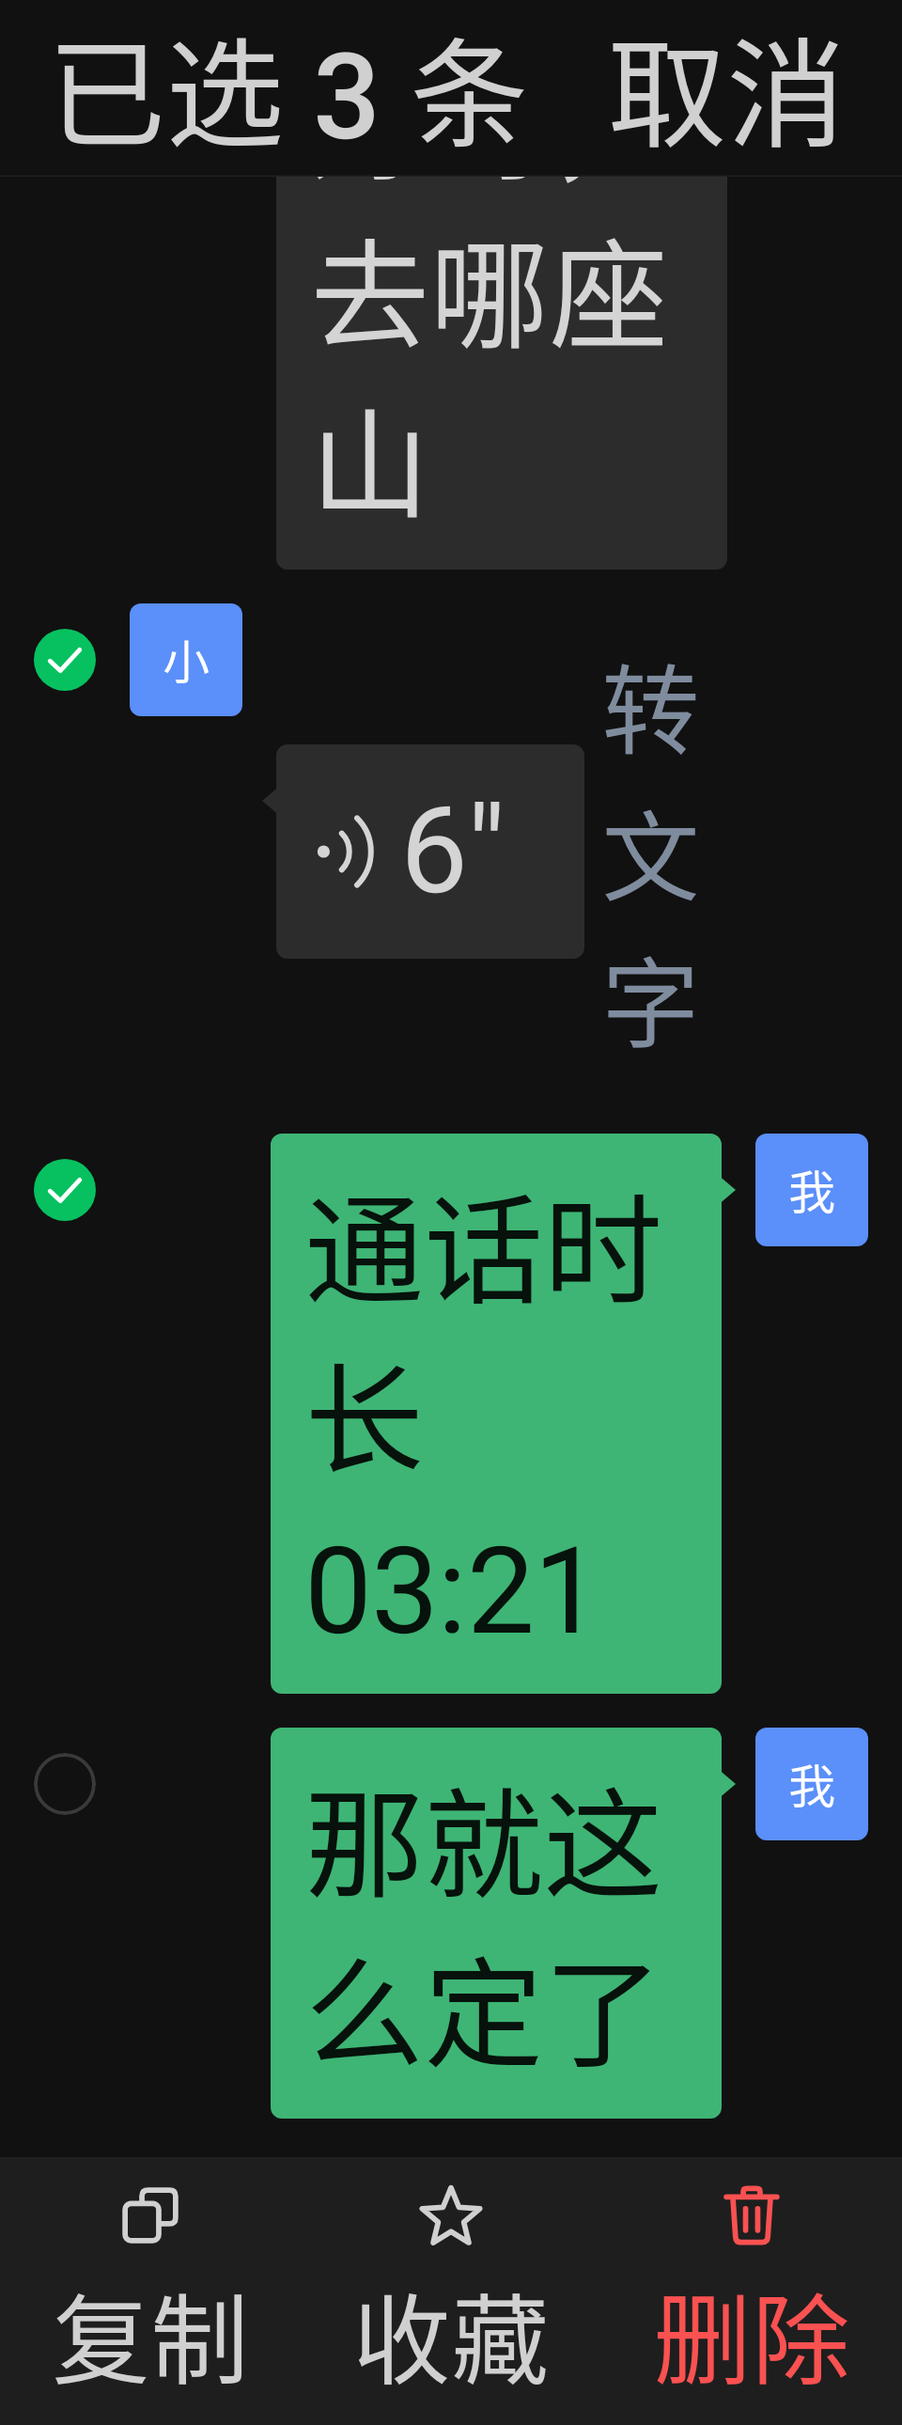
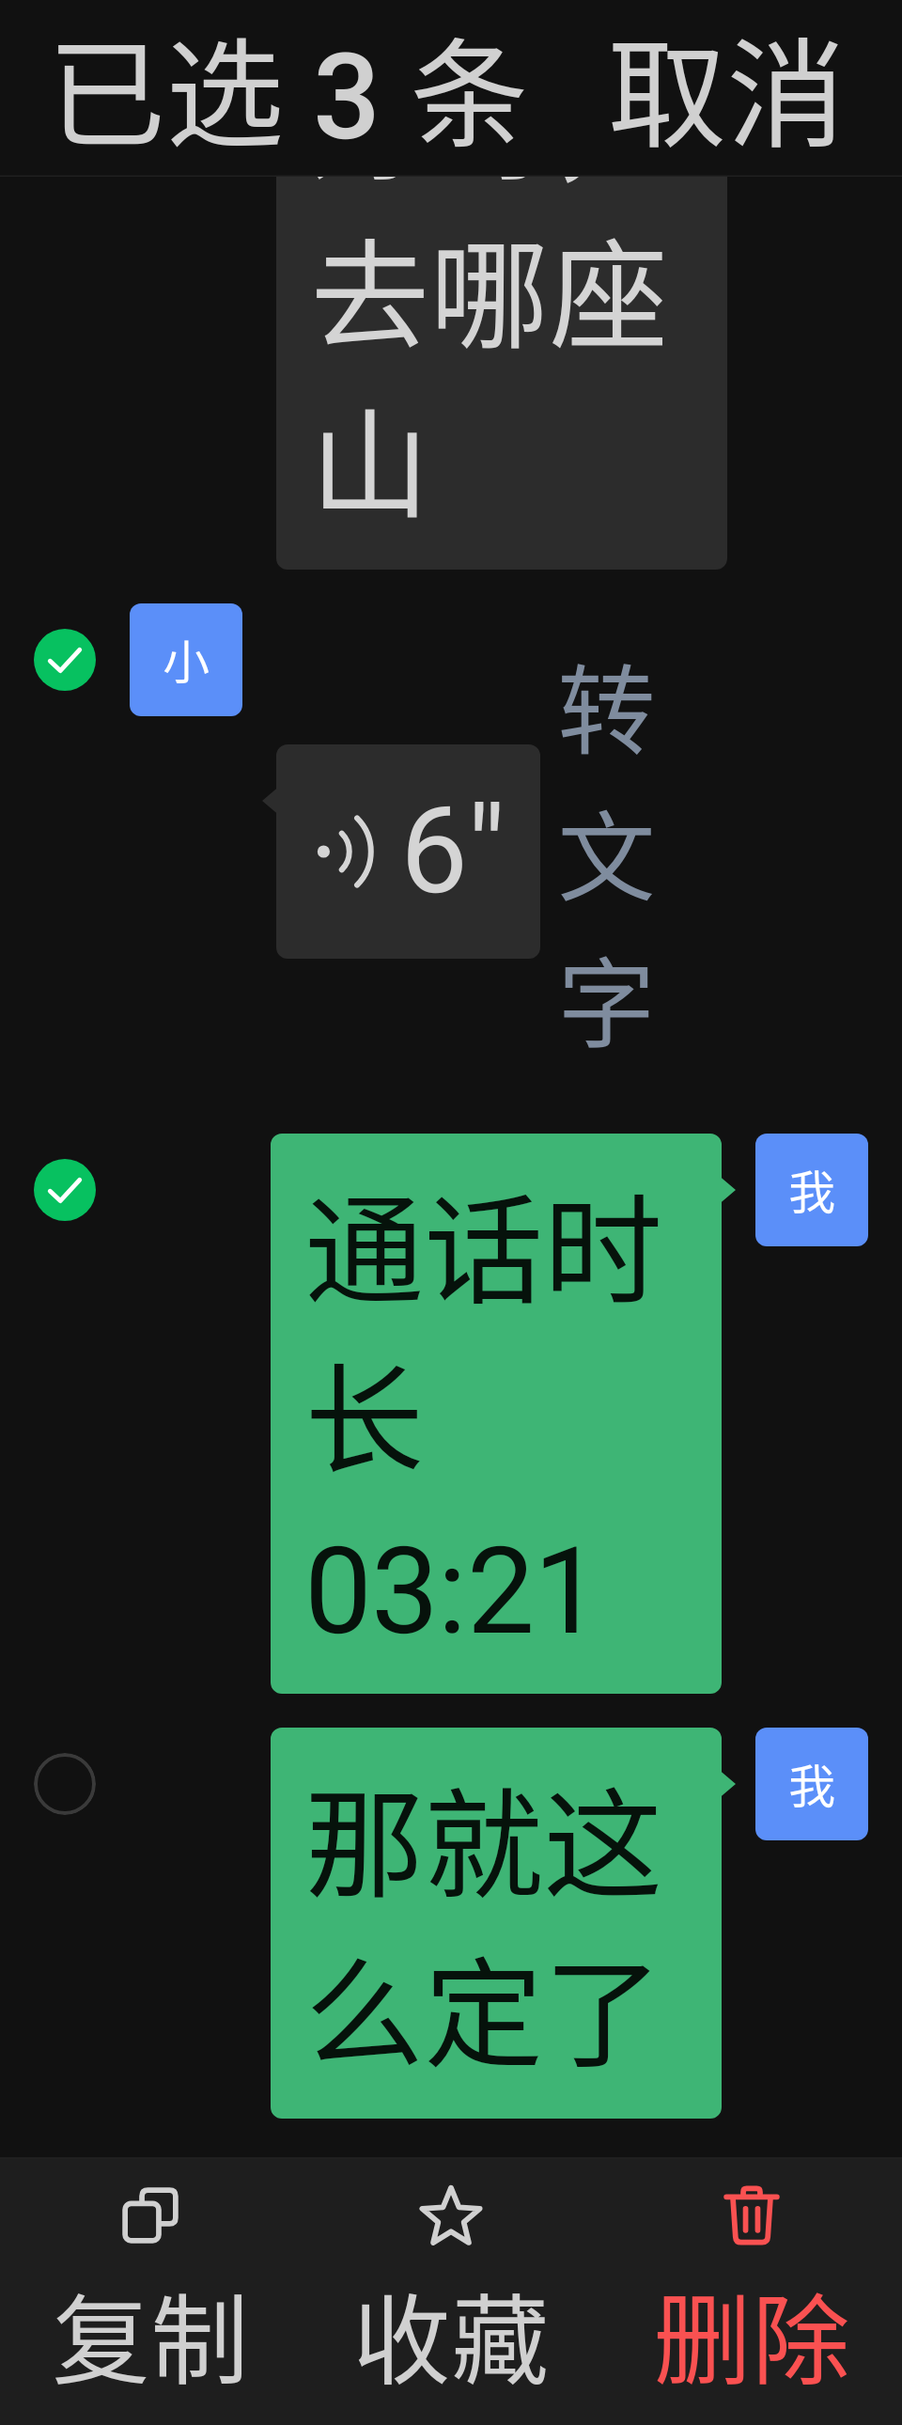
fix(chat): 长语音放不下时先缩短语音条，「转文字」不再被挤坏
真机验证（411dp、系统字体 1.1 × App 特大）发现：没听过的 60 秒语音旁边
「转文字」折成两行，多选时一字一行；窄屏时整行比屏幕宽、居中后语音条的
尾巴和「转文字」都看不见。语音条按秒数定宽先量，旁边只剩一点宽度。

改成先缩短语音条，最短到声波和秒数放得下一行，再让「转文字」变窄；
连一个字都放不下时不显示（长按菜单里也有）。新增长语音样例、5 项测试
和 5 张截图。

Changed region(s): [[0.5938, 0.2791, 0.7812, 0.4341]]

diff --git a/app/src/test/java/isomeria/aichat/ui/UiPolishTest.kt b/app/src/test/java/isomeria/aichat/ui/UiPolishTest.kt
@@ -14,6 +14,7 @@ import androidx.compose.ui.semantics.SemanticsActions
 import androidx.compose.ui.test.getBoundsInRoot
 import androidx.compose.ui.test.isRoot
 import androidx.compose.ui.test.junit4.createComposeRule
+import androidx.compose.ui.test.onAllNodesWithContentDescription
 import androidx.compose.ui.test.onAllNodesWithText
 import androidx.compose.ui.test.onFirst
 import androidx.compose.ui.test.onNodeWithContentDescription
@@ -41,6 +42,7 @@ import isomeria.aichat.feature.call.CallPlayerUi
 import isomeria.aichat.feature.call.CallUi
 import isomeria.aichat.feature.call.isTurnPlaceholder
 import isomeria.aichat.feature.chat.ChatPageSample
+import isomeria.aichat.feature.chat.longVoiceRows
 import isomeria.aichat.feature.chat.selectRows
 import isomeria.aichat.feature.chat.sampleContact
 import isomeria.aichat.feature.chatinfo.ChatInfoContent
@@ -59,6 +61,7 @@ import isomeria.aichat.ui.components.TOP_BAR_MIN_TITLE_SCALE
 import isomeria.aichat.ui.components.TitleSlot
 import isomeria.aichat.ui.components.TopBarIcon
 import isomeria.aichat.ui.components.VoiceBubble
+import isomeria.aichat.ui.components.voiceRowBubbleWidth
 import isomeria.aichat.ui.components.WeActionRow
 import isomeria.aichat.ui.components.WeDialog
 import isomeria.aichat.ui.components.WeIcon
@@ -348,6 +351,93 @@ class UiPolishTest {
         assertTrue("秒数被裁掉", fullyShown("10″"))
     }
 
+    // ---------- 第 11 条（真机验证时补）：长语音旁边的「转文字」 ----------
+    // 真机（411dp 宽、系统字体 1.1 × App 特大）上没听过的 60 秒语音旁边「转文字」折成两行，多选时一字一行；
+    // 窄屏时整行比屏幕宽、居中摆放，语音条的尾巴和「转文字」都看不见。改成先缩短语音条，最短到秒数放得下一行
+
+    @Test
+    fun voiceRowBubbleWidth_shrinksBubbleBeforeToText() {
+        // 放得下：按秒数的宽度
+        assertEquals(200, voiceRowBubbleWidth(available = 400, desired = 200, minimum = 90, besides = 80))
+        // 放不下：语音条缩短，旁边拿到要的宽度
+        assertEquals(220, voiceRowBubbleWidth(available = 300, desired = 250, minimum = 90, besides = 80))
+        // 最短到声波和秒数放得下一行
+        assertEquals(90, voiceRowBubbleWidth(available = 150, desired = 250, minimum = 90, besides = 80))
+        // 特大字体的短语音：秒数比按秒数的宽度还宽时放宽
+        assertEquals(120, voiceRowBubbleWidth(available = 400, desired = 80, minimum = 120, besides = 80))
+        // 不超过整行
+        assertEquals(60, voiceRowBubbleWidth(available = 60, desired = 250, minimum = 90, besides = 80))
+    }
+
+    @Test @Config(qualifiers = "w411dp-h860dp-xxhdpi")
+    fun longVoice_phoneLarge_toTextOnOneLine() {
+        show(PHONE_LARGE) { ChatPageSample(rows = longVoiceRows) }
+        assertVoiceRowsFit(toTextOneLine = true)
+    }
+
+    @Test @Config(qualifiers = "w411dp-h860dp-xxhdpi")
+    fun longVoice_phoneLargeSelecting_toTextOnOneLine() {
+        show(PHONE_LARGE) { ChatPageSample(rows = longVoiceRows, selection = setOf(61L)) }
+        assertVoiceRowsFit(toTextOneLine = true)
+    }
+
+    @Test @Config(qualifiers = "w320dp-h860dp-xxhdpi")
+    fun longVoice_narrowLarge_rowInsideScreen() {
+        show(PHONE_LARGE) { ChatPageSample(rows = longVoiceRows) }
+        assertVoiceRowsFit(toTextOneLine = true)
+    }
+
+    @Test @Config(qualifiers = "w320dp-h860dp-xxhdpi")
+    fun longVoice_narrowLargestSelecting_rowInsideScreen() {
+        show { ChatPageSample(rows = longVoiceRows, selection = setOf(61L)) }
+        assertVoiceRowsFit(toTextOneLine = false)
+    }
+
+    /**
+     * 每条长语音：语音条在屏幕里、秒数一行不被裁；两条对方的语音左边对齐（整行没有被居中挤歪）；
+     * 显示出来的「转文字」完整、不压语音条
+     */
+    private fun assertVoiceRowsFit(toTextOneLine: Boolean) {
+        val width = rootWidth()
+        val bubbles = listOf("语音，60 秒", "语音，42 秒").flatMap { desc ->
+            compose.onAllNodesWithContentDescription(desc, useUnmergedTree = true).fetchSemanticsNodes().map { node ->
+                with(compose.density) { node.boundsInRoot.let { DpRect(it.left.toDp(), it.top.toDp(), it.right.toDp(), it.bottom.toDp()) } }
+            }
+        }
+        assertEquals("应有三条长语音", 3, bubbles.size)
+        bubbles.forEach { b -> assertTrue("语音条超出屏幕 $b / $width", b.left >= 0.dp && b.right <= width + 0.5.dp) }
+        val received = bubbles.sortedBy { it.top }.take(2)
+        assertTrue("两条对方的语音没有左对齐：$received", kotlin.math.abs((received[0].left - received[1].left).value) < 1f)
+        listOf("60″", "42″").forEach { seconds ->
+            compose.onAllNodesWithText(seconds, useUnmergedTree = true).fetchSemanticsNodes().forEach { node ->
+                val layout = textLayout(node)
+                assertEquals("$seconds 折行", 1, layout.lineCount)
+                assertFalse("$seconds 被裁", layout.cut())
+            }
+        }
+        // 极窄时连一个字都放不下的「转文字」不显示（不放到屏幕上），只看显示出来的
+        val labels = compose.onAllNodesWithText("转文字", useUnmergedTree = true).fetchSemanticsNodes().filter { it.layoutInfo.isPlaced }
+        if (toTextOneLine) assertEquals("「转文字」应该三个都显示", 3, labels.size)
+        labels.forEach { node ->
+            val layout = textLayout(node)
+            val shown = node.boundsInRoot
+            assertTrue("「转文字」没有完整显示 ${shown.width}x${shown.height} / ${layout.size}", shown.width >= layout.size.width - 1f && shown.height >= layout.size.height - 1f)
+            assertFalse("「转文字」的字比文字框宽，被裁掉", layout.cut())
+            if (toTextOneLine) assertEquals("「转文字」折行", 1, layout.lineCount)
+            val box = with(compose.density) { DpRect(shown.left.toDp(), shown.top.toDp(), shown.right.toDp(), shown.bottom.toDp()) }
+            assertTrue("「转文字」超出屏幕 $box", box.left >= 0.dp && box.right <= width + 0.5.dp)
+            bubbles.filter { it.top < box.bottom && box.top < it.bottom }.forEach { b ->
+                assertTrue("「转文字」$box 压到语音条 $b", box.left >= b.right - 0.5.dp || box.right <= b.left + 0.5.dp)
+            }
+        }
+    }
+
+    private fun textLayout(node: androidx.compose.ui.semantics.SemanticsNode): TextLayoutResult {
+        val out = mutableListOf<TextLayoutResult>()
+        node.config[SemanticsActions.GetTextLayoutResult].action!!.invoke(out)
+        return out.first()
+    }
+
     // ---------- ① 窄屏大字体：列表行和下一行不重叠 ----------
     // 0.9.0 截图里「选择音色」和「语气和风格」叠在一起，查下来是截图样例的问题：样例的 Column 不能滚动，
     // 内容比屏幕高时最后几行被压缩、居中摆放，和上一行重叠。真实页面可以滚动，不会这样。这里按真实页面放在可滚动的列里，
@@ -455,5 +545,8 @@ class UiPolishTest {
 
     private companion object {
         const val LARGEST = 2.5f
+
+        /** 测试手机上的设置：系统字体 1.1 × App「特大」1.25 */
+        const val PHONE_LARGE = 1.1f * 1.25f
     }
 }

diff --git a/app/src/main/java/isomeria/aichat/feature/chat/MessageRows.kt b/app/src/main/java/isomeria/aichat/feature/chat/MessageRows.kt
@@ -40,6 +40,9 @@ import androidx.compose.ui.draw.clip
 import androidx.compose.ui.draw.drawWithContent
 import androidx.compose.ui.graphics.Color
 import androidx.compose.ui.layout.ContentScale
+import androidx.compose.ui.layout.Layout
+import androidx.compose.ui.layout.layoutId
+import androidx.compose.ui.unit.Constraints
 import androidx.compose.ui.res.stringResource
 import androidx.compose.ui.semantics.clearAndSetSemantics
 import androidx.compose.ui.semantics.contentDescription
@@ -58,6 +61,10 @@ import isomeria.aichat.ui.components.MenuItem
 import isomeria.aichat.ui.components.TextBubble
 import isomeria.aichat.ui.components.UnplayedDot
 import isomeria.aichat.ui.components.VoiceBubble
+import isomeria.aichat.ui.components.voiceBubbleMinWidth
+import isomeria.aichat.ui.components.voiceBubbleWidth
+import isomeria.aichat.ui.components.voiceRowBubbleWidth
+import isomeria.aichat.ui.components.voiceSeconds
 import isomeria.aichat.data.voice.PlayMode
 import isomeria.aichat.ui.components.WeBubbleMenu
 import isomeria.aichat.ui.components.WeIcon
@@ -443,28 +450,56 @@ private fun VoiceMessage(message: Message, sent: Boolean, playing: Boolean, onCl
             )
         }
     }
-    // 0.9.1：语音条先量（宽度按秒数，字体大时跟着变宽），「转文字」用剩下的宽度，放不下时换行；
-    // 以前反过来，窄屏多选时语音条被挤得放不下秒数
-    Row(verticalAlignment = Alignment.CenterVertically) {
-        if (sent) toText(Modifier.weight(1f, fill = false))
-        VoiceBubble(
-            millis = message.voiceMillis,
-            sent = sent,
-            playing = playing,
-            unplayed = unplayed,
-            onClick = onClick,
-            onLongClick = onLongClick,
-            held = held,
-        )
-        if (!sent) {
-            if (unplayed) {
-                Spacer(Modifier.width(6.dp))
-                UnplayedDot()
+    // 0.9.1：一行放不下时先缩短语音条（最短到声波和秒数放得下一行），再让「转文字」变窄、换行（见 voiceRowBubbleWidth）。
+    // 0.9.0 是「转文字」先量，窄屏多选时语音条被挤得放不下秒数；0.9.1 开发时改成语音条按秒数定宽先量，
+    // 真机验证发现大字体时「转文字」被挤成一字一行，窄屏时整行比屏幕宽、尾巴和「转文字」都看不见
+    val seconds = voiceSeconds(message.voiceMillis)
+    val desired = voiceBubbleWidth(seconds) + WeTheme.dimens.bubbleTailWidth
+    val minimum = voiceBubbleMinWidth(seconds)
+    Layout(
+        content = {
+            VoiceBubble(
+                millis = message.voiceMillis,
+                sent = sent,
+                playing = playing,
+                unplayed = unplayed,
+                onClick = onClick,
+                onLongClick = onLongClick,
+                held = held,
+                modifier = Modifier.layoutId(VOICE_BUBBLE),
+            )
+            if (unplayed) Box(Modifier.layoutId(VOICE_DOT).padding(start = 6.dp)) { UnplayedDot() }
+            toText(Modifier.layoutId(VOICE_TO_TEXT))
+        },
+    ) { measurables, constraints ->
+        val bubbleSlot = measurables.first { it.layoutId == VOICE_BUBBLE }
+        val dotSlot = measurables.firstOrNull { it.layoutId == VOICE_DOT }
+        val textSlot = measurables.firstOrNull { it.layoutId == VOICE_TO_TEXT }
+        val height = constraints.maxHeight
+        val besides = (dotSlot?.maxIntrinsicWidth(height) ?: 0) + (textSlot?.maxIntrinsicWidth(height) ?: 0)
+        val available = if (constraints.hasBoundedWidth) constraints.maxWidth else desired.roundToPx() + besides
+        val bubbleWidth = voiceRowBubbleWidth(available, desired.roundToPx(), minimum.roundToPx(), besides)
+        val bubble = bubbleSlot.measure(Constraints(minWidth = bubbleWidth, maxWidth = bubbleWidth, maxHeight = height))
+        val dot = dotSlot?.measure(Constraints(maxHeight = height))
+        val dotWidth = dot?.width ?: 0
+        // 剩下的宽度连一个字都放不下（窄屏、系统大字体叠 App 特大、多选时）就不显示「转文字」，免得字被裁掉一半；长按菜单里也有「转文字」
+        val textWidth = (available - bubbleWidth - dotWidth).coerceAtLeast(0)
+        val text = textSlot?.takeIf { it.minIntrinsicWidth(height) <= textWidth }?.measure(Constraints(maxWidth = textWidth, maxHeight = height))
+        val rowHeight = maxOf(bubble.height, dot?.height ?: 0, text?.height ?: 0)
+        val order = if (sent) listOfNotNull(text, bubble) else listOfNotNull(bubble, dot, text)
+        layout(order.sumOf { it.width }, rowHeight) {
+            var x = 0
+            order.forEach {
+                it.place(x, (rowHeight - it.height) / 2)
+                x += it.width
             }
-            toText(Modifier.weight(1f, fill = false))
         }
     }
 }
+
+private const val VOICE_BUBBLE = "bubble"
+private const val VOICE_DOT = "dot"
+private const val VOICE_TO_TEXT = "toText"
 
 /** 语音下面：展开的转写文字，或自己的语音正在识别 */
 @OptIn(ExperimentalFoundationApi::class)

diff --git a/app/src/main/java/isomeria/aichat/ui/components/VoiceBubble.kt b/app/src/main/java/isomeria/aichat/ui/components/VoiceBubble.kt
@@ -38,6 +38,8 @@ import androidx.compose.ui.semantics.onClick
 import androidx.compose.ui.semantics.onLongClick
 import androidx.compose.ui.semantics.role
 import androidx.compose.ui.semantics.stateDescription
+import androidx.compose.ui.platform.LocalDensity
+import androidx.compose.ui.text.rememberTextMeasurer
 import androidx.compose.ui.unit.Dp
 import androidx.compose.ui.unit.dp
 import isomeria.aichat.R
@@ -52,6 +54,35 @@ fun voiceBubbleWidth(seconds: Int, min: Dp = 72.dp, max: Dp = 200.dp): Dp {
     val fraction = sqrt((seconds.coerceIn(1, 60) - 1) / 59f)
     return min + (max - min) * fraction
 }
+
+/** 声波图标的大小（随字体放大前）和它与秒数的间距 */
+private val VOICE_WAVE_SIZE = 20.dp
+private val VOICE_ICON_GAP = 8.dp
+
+/**
+ * 语音条最窄能到多宽（0.9.1）：两边留白、尾巴、声波和秒数刚好放得下一行。
+ * 聊天里旁边还有「转文字」时，语音条先缩短这一截以外的长度（见 [voiceRowBubbleWidth]）。
+ */
+@Composable
+internal fun voiceBubbleMinWidth(seconds: Int): Dp {
+    val dimens = WeTheme.dimens
+    val density = LocalDensity.current
+    val measurer = rememberTextMeasurer()
+    val text = stringResource(R.string.voice_seconds, seconds)
+    val style = WeTheme.typography.message
+    val textWidth = remember(text, style, density, measurer) { measurer.measure(text, style).size.width }
+    val iconScale = LocalIconScale.current
+    return dimens.bubblePaddingHorizontal * 2 + dimens.bubbleTailWidth + VOICE_WAVE_SIZE * iconScale + VOICE_ICON_GAP +
+        with(density) { (textWidth + 1).toDp() }
+}
+
+/**
+ * 聊天里语音条的宽度（像素，0.9.1 真机验证时改）：按秒数的宽度 [desired]，旁边的红点和「转文字」（[besides]）放不下时缩短，
+ * 最短到 [minimum]（声波和秒数放得下一行）；秒数比按秒数的宽度还宽（特大字体的短语音）时放宽到 [minimum]；不超过 [available]。
+ * 以前语音条按秒数定宽、先量，大字体或窄屏时「转文字」被挤成一字一行，窄屏时整行比屏幕宽、居中后语音条的尾巴和「转文字」都看不见。
+ */
+internal fun voiceRowBubbleWidth(available: Int, desired: Int, minimum: Int, besides: Int): Int =
+    (available - besides).coerceIn(minimum, maxOf(desired, minimum)).coerceAtMost(available)
 
 /**
  * 语音消息的气泡（0.7.0）：和文字气泡同样的形状和颜色，宽度随时长变化，里面是声波图标和秒数。
@@ -117,7 +148,7 @@ fun VoiceBubble(
             ),
         contentAlignment = if (sent) Alignment.CenterEnd else Alignment.CenterStart,
     ) {
-        Row(verticalAlignment = Alignment.CenterVertically, horizontalArrangement = Arrangement.spacedBy(8.dp)) {
+        Row(verticalAlignment = Alignment.CenterVertically, horizontalArrangement = Arrangement.spacedBy(VOICE_ICON_GAP)) {
             val text = @Composable { Text(stringResource(R.string.voice_seconds, seconds), style = WeTheme.typography.message, color = content) }
             if (sent) {
                 text()
@@ -132,7 +163,7 @@ fun VoiceBubble(
 
 /** 声波图标：一个点和两道弧，[visible] 是亮着几格（1～3）；0.8.0 起通话详情页也用 */
 @Composable
-internal fun SoundWaves(color: Color, visible: Int, pointingRight: Boolean, size: Dp = 20.dp) {
+internal fun SoundWaves(color: Color, visible: Int, pointingRight: Boolean, size: Dp = VOICE_WAVE_SIZE) {
     // 和其他图标一样随 App 字体大小放大（0.9.1）
     Canvas(Modifier.size(size * LocalIconScale.current)) {
         scale(scaleX = if (pointingRight) 1f else -1f, scaleY = 1f) {

diff --git a/app/src/test/java/isomeria/aichat/screenshot/ScreenshotTest.kt b/app/src/test/java/isomeria/aichat/screenshot/ScreenshotTest.kt
@@ -1049,6 +1049,22 @@ class ScreenshotTest {
     @Test fun voiceBubblesLarge() = large("74-chat-voice-large", false) { ChatPageSample(rows = isomeria.aichat.feature.chat.voiceRows, playingId = 13) }
     @Test @Config(qualifiers = "w320dp-h860dp-xxhdpi") fun voiceBubblesNarrow() = shot("74-chat-voice-narrow", true) { ChatPageSample(rows = isomeria.aichat.feature.chat.voiceRows, playingId = 13) }
 
+    // 0.9.1 真机验证时补：长语音旁边的红点和「转文字」。phone 是测试手机的宽度和字体（411dp，系统 1.1 × App 特大）
+    private fun phoneScale(name: String, dark: Boolean, content: @Composable () -> Unit) {
+        compose.setContent {
+            AIChatTheme(darkTheme = dark, fontScale = 1.1f * 1.25f) {
+                Box(Modifier.fillMaxSize().background(WeTheme.colors.pageBackground)) { content() }
+            }
+        }
+        compose.onRoot().captureRoboImage("screenshots/$name-${if (dark) "dark" else "light"}.png")
+    }
+
+    @Test fun longVoiceLight() = shot("94-chat-long-voice", false) { ChatPageSample(rows = isomeria.aichat.feature.chat.longVoiceRows) }
+    @Test @Config(qualifiers = "w411dp-h860dp-xxhdpi") fun longVoicePhone() = phoneScale("94-chat-long-voice-phone", false) { ChatPageSample(rows = isomeria.aichat.feature.chat.longVoiceRows) }
+    @Test @Config(qualifiers = "w411dp-h860dp-xxhdpi") fun longVoicePhoneSelect() = phoneScale("94-chat-long-voice-phone-select", false) { ChatPageSample(rows = isomeria.aichat.feature.chat.longVoiceRows, selection = setOf(61L)) }
+    @Test @Config(qualifiers = "w320dp-h860dp-xxhdpi") fun longVoiceNarrow() = phoneScale("94-chat-long-voice-narrow", true) { ChatPageSample(rows = isomeria.aichat.feature.chat.longVoiceRows) }
+    @Test @Config(qualifiers = "w320dp-h860dp-xxhdpi") fun longVoiceNarrowLargeSelect() = large("94-chat-long-voice-narrow-select-large", false) { ChatPageSample(rows = isomeria.aichat.feature.chat.longVoiceRows, selection = setOf(61L)) }
+
     private fun voiceMenuShot(name: String, dark: Boolean, scale: Float = 1f, id: Long = 13) {
         compose.setContent {
             AIChatTheme(darkTheme = dark, fontScale = scale) {

diff --git a/app/src/main/java/isomeria/aichat/feature/chat/ChatPreview.kt b/app/src/main/java/isomeria/aichat/feature/chat/ChatPreview.kt
@@ -112,6 +112,14 @@ internal val selectRows: List<ChatRow> = listOf(
     ChatRow.Item(msg(35, Role.USER, "那就这么定了", status = MessageStatus.SENDING)),
 )
 
+/** 长语音（0.9.1 真机验证时补）：没听过的 60 秒（红点和「转文字」）、听过的 42 秒、自己发的 60 秒，看大字体和窄屏时一行放不放得下 */
+internal val longVoiceRows: List<ChatRow> = listOf(
+    ChatRow.TimeBar("21:30", "t0"),
+    ChatRow.Item(voice(61, Role.ASSISTANT, 60, "这是一段比较长的语音", played = false)),
+    ChatRow.Item(voice(62, Role.ASSISTANT, 42, "听过的长语音")),
+    ChatRow.Item(voice(63, Role.USER, 60, "我也说一段长的")),
+)
+
 /** 引用（0.9.0）：引用对方的文字、引用自己的语音，下面是引用块 */
 internal val quoteRows: List<ChatRow> = listOf(
     ChatRow.TimeBar("21:30", "t0"),
